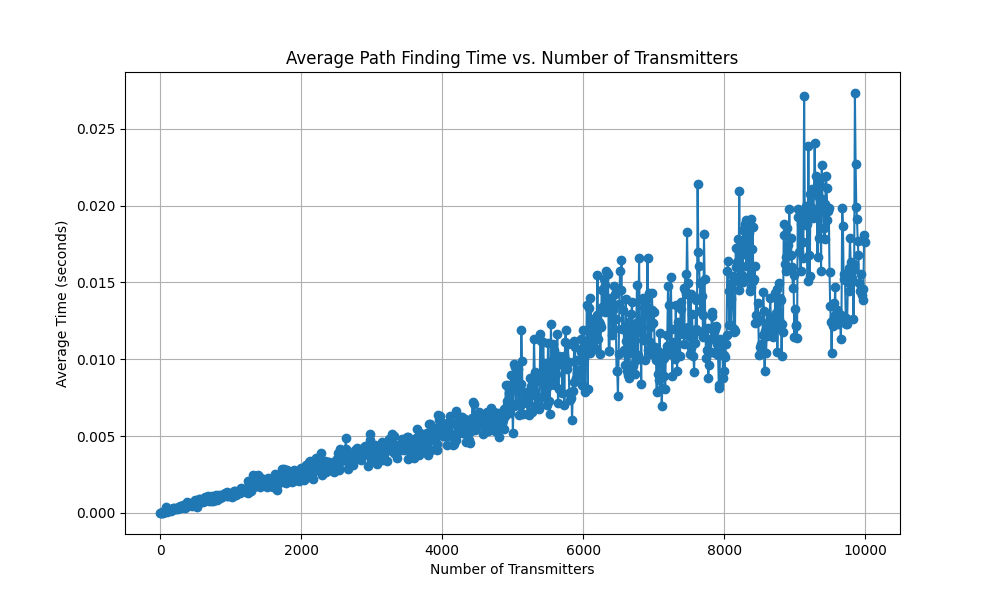
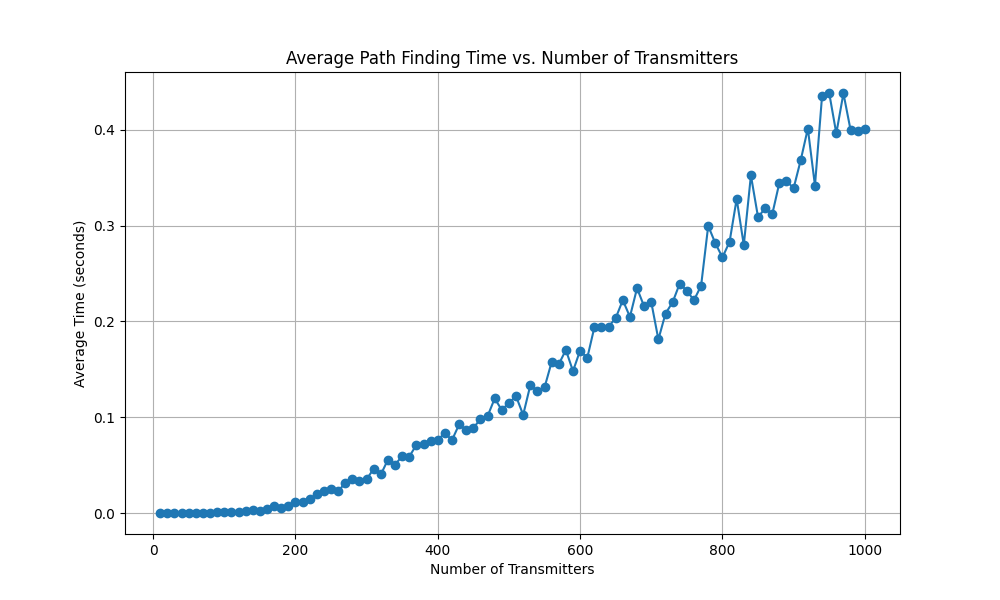
update time_measure

diff --git a/quadrocopter/utils/time_measure.py b/quadrocopter/utils/time_measure.py
@@ -1,37 +1,41 @@
 import random
 import time
 
-import matplotlib.pyplot as plt
 import numpy as np
+from matplotlib import pyplot as plt
+from tqdm import tqdm
 
 from quadrocopter.model.path_finder import PathFinder
 from quadrocopter.model.utils import Transmitter, Point
 
 # Constants
-MAX_TRANSMITTERS = 10000
+MAX_TRANSMITTERS = 1000
 ITERATIONS = 100
 TIMES = []
 
 
 # Function to run path finding with random transmitters
 def run_path_finding(transmitters_count: int) -> float:
+    max_range = transmitters_count
+    max_power = max(int(transmitters_count / 14), 1)
     _transmitters = [
-        Transmitter(Point(random.randint(0, 100), random.randint(0, 100)), random.randint(0, 100)) for _ in
+        Transmitter(Point(random.randint(0, max_range), random.randint(0, max_range)), random.randint(1, max_power)) for
+        _ in
         range(transmitters_count)]
-    _start = Point(random.randint(0, 100), random.randint(0, 100))
-    _end = Point(random.randint(0, 100), random.randint(0, 100))
+    _start = random.sample(_transmitters, k=1)[0].center
+    _end = random.sample(_transmitters, k=1)[0].center
     tp = PathFinder(start=_start, end=_end, transmitters=_transmitters)
     start_time = time.time()
-    tp.is_path_possible()
+    _, path = tp.is_path_possible()
     elapsed_time = time.time() - start_time
     return elapsed_time
 
 
 # Create data for different transmitter counts
-transmitter_counts = range(1, MAX_TRANSMITTERS + 1, 10)
+transmitter_counts = range(10, MAX_TRANSMITTERS + 1, 10)
 average_times = []
 
-for transmitters_count in transmitter_counts:
+for transmitters_count in tqdm(transmitter_counts):
     iteration_times = []
     for _ in range(ITERATIONS):
         elapsed_time = run_path_finding(transmitters_count)
